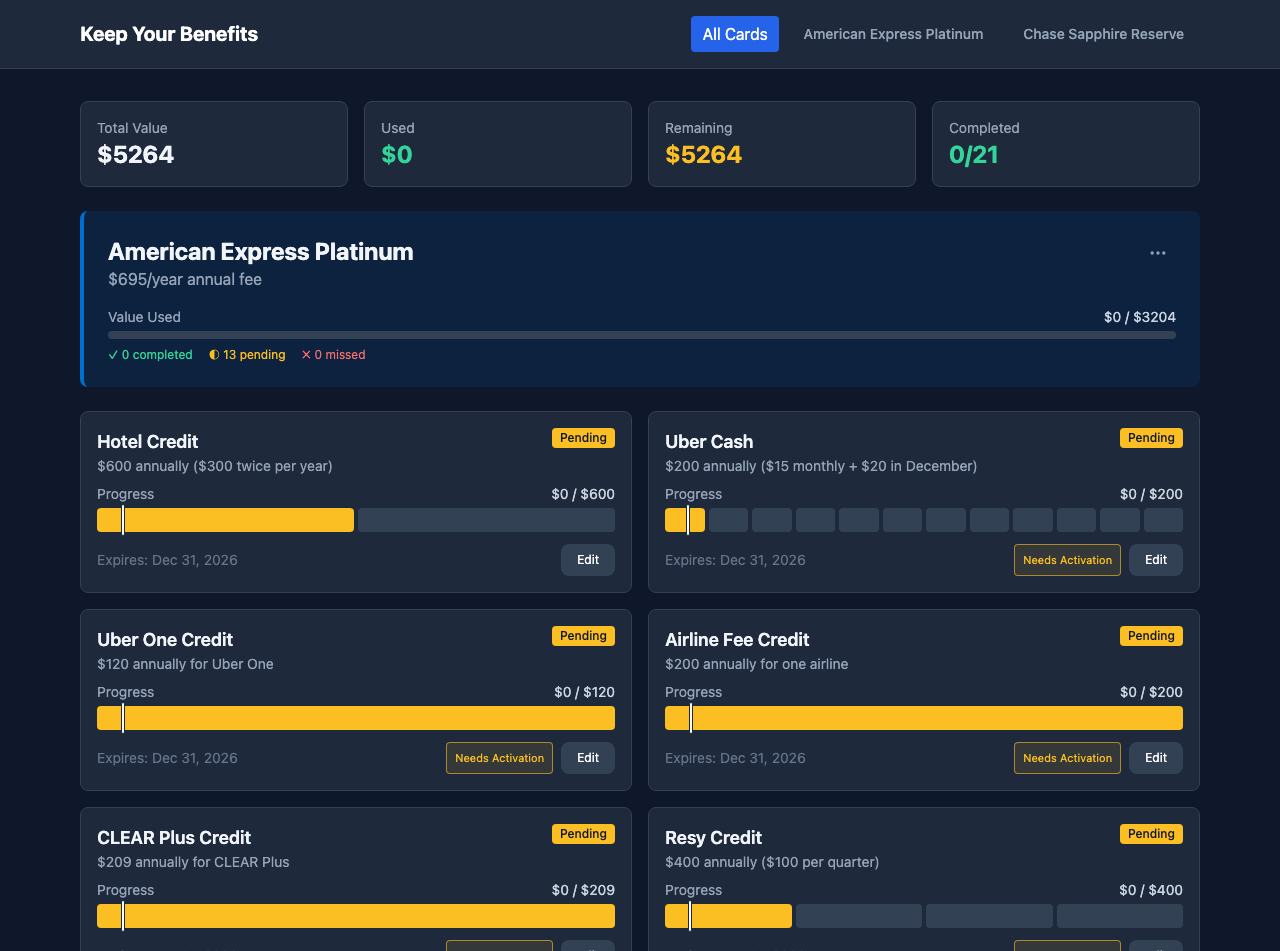
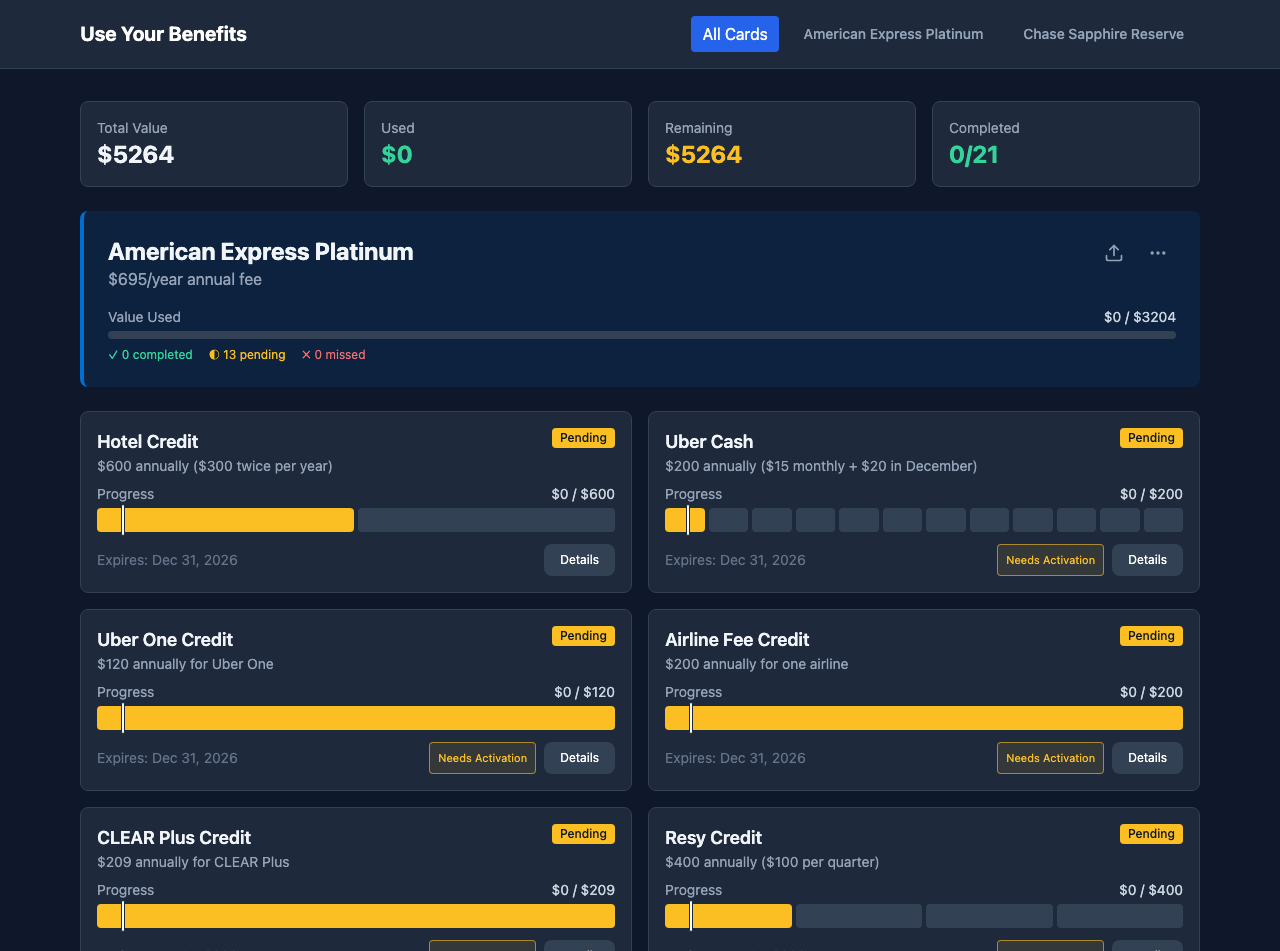
Rename project to Use Your Benefits

diff --git a/client/src/App.tsx b/client/src/App.tsx
@@ -221,7 +221,7 @@ function App() {
                 className={`font-bold text-xl ${!selectedCardId ? 'text-white' : 'text-slate-400 hover:text-white'}`}
                 type="button"
               >
-                Keep Your Benefits
+                Use Your Benefits
               </button>
             </div>
             <nav className="flex gap-2">

diff --git a/e2e/browser.test.js b/e2e/browser.test.js
@@ -8,7 +8,7 @@ test.describe('Dashboard', () => {
   });
 
   test('loads successfully', async ({ page }) => {
-    await expect(page.locator('text=Keep Your Benefits')).toBeVisible();
+    await expect(page.locator('text=Use Your Benefits')).toBeVisible();
   });
 
   test('shows all cards', async ({ page }) => {

diff --git a/client/index.html b/client/index.html
@@ -4,7 +4,7 @@
     <meta charset="UTF-8" />
     <link rel="icon" type="image/svg+xml" href="/vite.svg" />
     <meta name="viewport" content="width=device-width, initial-scale=1.0" />
-    <title>Keep Your Benefits</title>
+    <title>Use Your Benefits</title>
   </head>
   <body>
     <div id="root"></div>

diff --git a/vite.config.ts b/vite.config.ts
@@ -5,7 +5,7 @@ import path from 'path'
 
 export default defineConfig(({ command }) => ({
   root: './client',
-  base: command === 'build' ? '/keep-your-benefits/' : '/',
+  base: command === 'build' ? '/use-your-benefits/' : '/',
   plugins: [react()],
   clearScreen: false,
   build: {

diff --git a/client/src/storage/userBenefits.ts b/client/src/storage/userBenefits.ts
@@ -5,7 +5,7 @@ import type {
   UserBenefitsData,
 } from '../../../shared/types';
 
-const STORAGE_KEY = 'user-benefits';
+const STORAGE_KEY = 'use-your-benefits';
 
 // Module-level cache for localStorage reads
 let cachedData: UserBenefitsData | null = null;

diff --git a/AGENTS.md b/AGENTS.md
@@ -1,6 +1,6 @@
-# Agent Instructions for Keep Your Benefits
+# Agent Instructions for Use Your Benefits
 
-This document provides instructions for AI agents working on the Keep Your Benefits project.
+This document provides instructions for AI agents working on the Use Your Benefits project.
 
 ## Core Principles
 
@@ -19,7 +19,7 @@ This document provides instructions for AI agents working on the Keep Your Benef
 This is a **fully static app** with no backend server:
 
 - **Benefit definitions**: Loaded from `/benefits.json` (static file)
-- **User data**: Stored in browser `localStorage` under key `user-benefits`
+- **User data**: Stored in browser `localStorage` under key `use-your-benefits`
 - **Build output**: Static files in `dist/` that can be deployed anywhere
 
 ## Development Commands
@@ -81,7 +81,7 @@ bun run test:e2e:install
 ### File Structure
 
 ```
-keep-your-benefits/
+use-your-benefits/
 ├── client/                  # Frontend (React + Vite)
 │   ├── public/
 │   │   └── benefits.json    # Static benefit definitions

diff --git a/README.md b/README.md
@@ -1,4 +1,4 @@
-# Keep Your Benefits
+# Use Your Benefits
 
 ![Screenshot](screenshot.png)
 
@@ -30,7 +30,7 @@ A fully static web application to track credit card benefits for Amex Platinum a
 ## Project Structure
 
 ```
-keep-your-benefits/
+use-your-benefits/
 ├── client/                      # Frontend (React + Vite)
 │   ├── public/
 │   │   └── benefits.json        # Static benefit definitions
